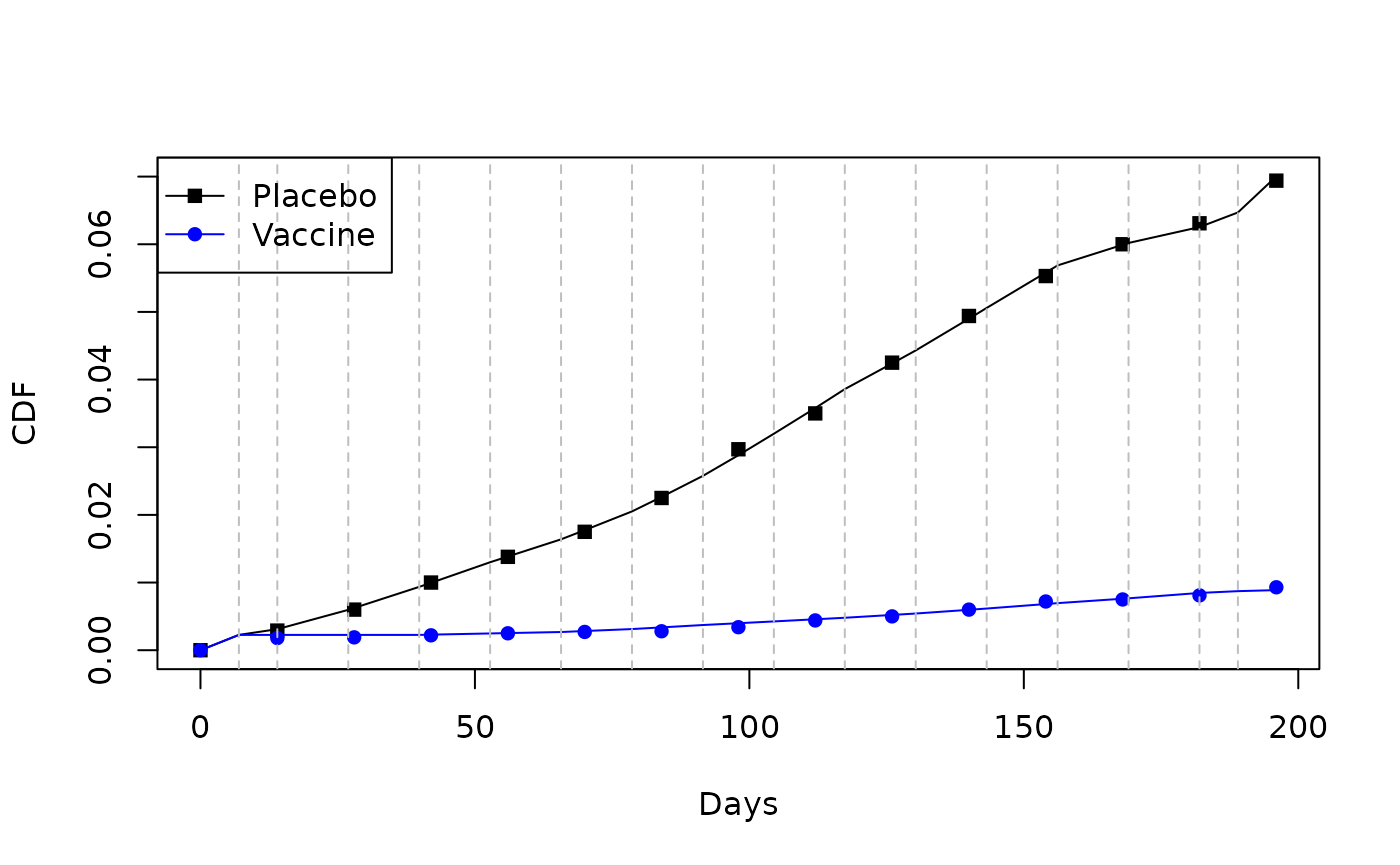
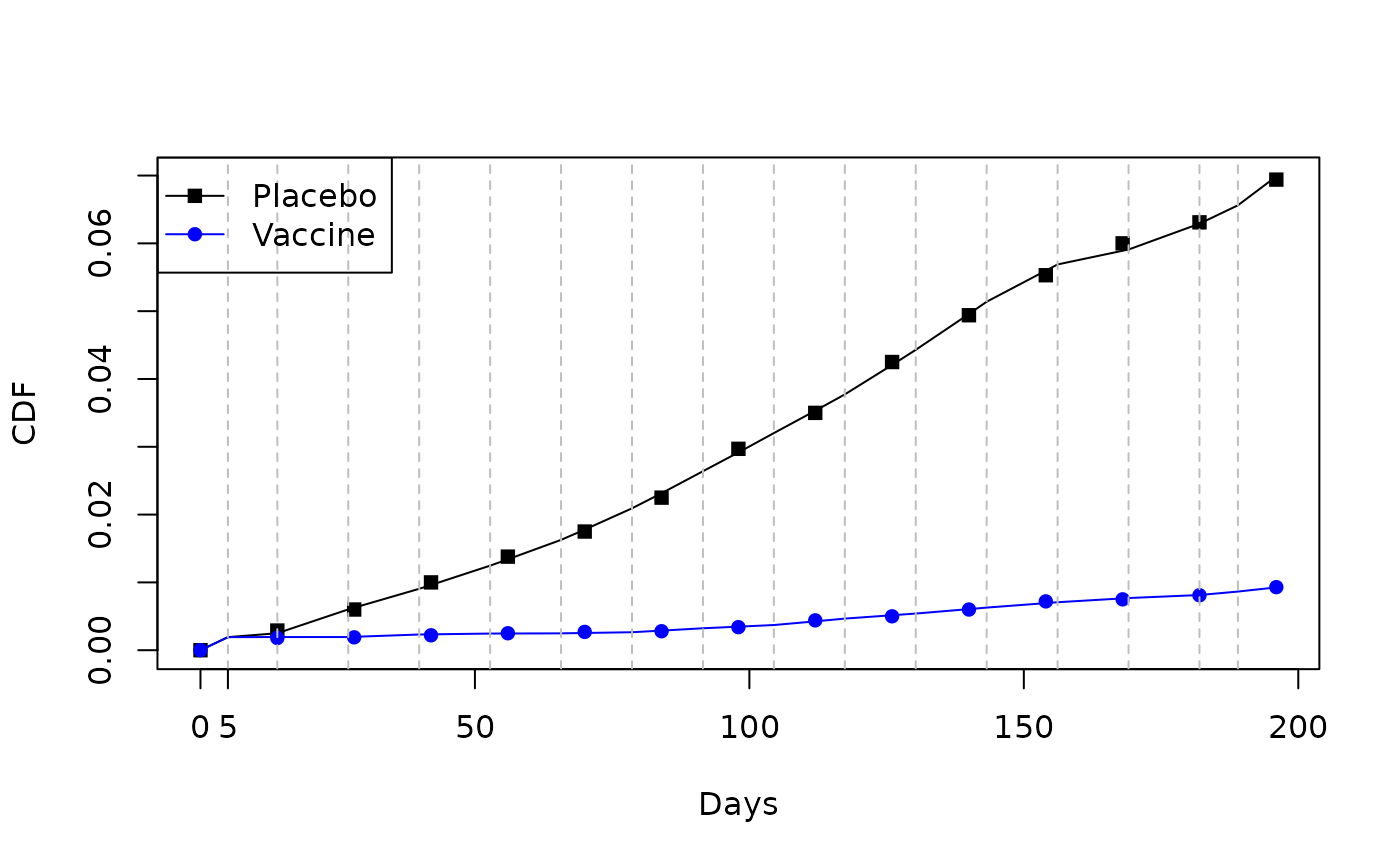
Deploying to gh-pages from @ swihart/mpw@29a186643586e4dbcfac5076dd0eb00bf7004102 🚀

diff --git a/articles/alpha.html b/articles/alpha.html
@@ -133,9 +133,9 @@ this example.</p>
 <h2 id="sixteen-knots">Sixteen knots<a class="anchor" aria-label="anchor" href="#sixteen-knots"></a>
 </h2>
 <div class="sourceCode" id="cb3"><pre class="downlit sourceCode r">
-<code class="sourceCode R"><span><span class="va">tvec.in</span> <span class="op">&lt;-</span> <span class="fu"><a href="https://rdrr.io/r/base/c.html" class="external-link">c</a></span><span class="op">(</span><span class="fl">7</span>, <span class="fu"><a href="https://rdrr.io/r/base/seq.html" class="external-link">seq</a></span><span class="op">(</span><span class="fl">14</span>,<span class="fu"><a href="https://rdrr.io/r/base/Extremes.html" class="external-link">max</a></span><span class="op">(</span><span class="va">time</span><span class="op">)</span><span class="op">-</span><span class="fl">14</span>,length.out<span class="op">=</span><span class="fl">14</span><span class="op">)</span>,<span class="fu"><a href="https://rdrr.io/r/base/Extremes.html" class="external-link">max</a></span><span class="op">(</span><span class="va">time</span><span class="op">)</span><span class="op">-</span><span class="fl">7</span><span class="op">)</span></span>
+<code class="sourceCode R"><span><span class="va">tvec.in</span> <span class="op">&lt;-</span> <span class="fu"><a href="https://rdrr.io/r/base/c.html" class="external-link">c</a></span><span class="op">(</span><span class="fl">5</span>, <span class="fu"><a href="https://rdrr.io/r/base/seq.html" class="external-link">seq</a></span><span class="op">(</span><span class="fl">14</span>,<span class="fu"><a href="https://rdrr.io/r/base/Extremes.html" class="external-link">max</a></span><span class="op">(</span><span class="va">time</span><span class="op">)</span><span class="op">-</span><span class="fl">14</span>,length.out<span class="op">=</span><span class="fl">14</span><span class="op">)</span>,<span class="fu"><a href="https://rdrr.io/r/base/Extremes.html" class="external-link">max</a></span><span class="op">(</span><span class="va">time</span><span class="op">)</span><span class="op">-</span><span class="fl">7</span><span class="op">)</span></span>
 <span><span class="va">tvec.in</span></span>
-<span><span class="co">#&gt;  [1]   7.00000  14.00000  26.92308  39.84615  52.76923  65.69231  78.61538</span></span>
+<span><span class="co">#&gt;  [1]   5.00000  14.00000  26.92308  39.84615  52.76923  65.69231  78.61538</span></span>
 <span><span class="co">#&gt;  [8]  91.53846 104.46154 117.38462 130.30769 143.23077 156.15385 169.07692</span></span>
 <span><span class="co">#&gt; [15] 182.00000 189.00000</span></span></code></pre></div>
 <div class="section level3">
@@ -160,17 +160,17 @@ this example.</p>
 <span>        control<span class="op">=</span><span class="fu"><a href="https://rdrr.io/r/base/list.html" class="external-link">list</a></span><span class="op">(</span>maxit<span class="op">=</span><span class="fl">1e8</span><span class="op">)</span><span class="op">)</span></span>
 <span><span class="fu"><a href="https://rdrr.io/r/base/print.html" class="external-link">print</a></span><span class="op">(</span><span class="va">plac_fit_F_alpha</span><span class="op">)</span></span>
 <span><span class="co">#&gt; $par</span></span>
-<span><span class="co">#&gt;  [1]  -0.15799938 -10.12040145  -0.21508909   0.74768428   0.21589618</span></span>
-<span><span class="co">#&gt;  [6]   0.03136962  -0.15528469   0.27388947   0.35359469   0.20431276</span></span>
-<span><span class="co">#&gt; [11]  -0.03848921  -0.39518830   0.11877485  -0.05979150  -0.91393283</span></span>
-<span><span class="co">#&gt; [16]  -0.27749430   0.54807831   1.84013113</span></span>
+<span><span class="co">#&gt;  [1]  -0.19809428 -10.00290490  -0.46528979   1.50975780  -0.41049204</span></span>
+<span><span class="co">#&gt;  [6]   0.13659323   0.10835991   0.26344501   0.18239172  -0.08269246</span></span>
+<span><span class="co">#&gt; [11]  -0.07470972   0.19303094   0.05622029  -0.55575772  -0.99909140</span></span>
+<span><span class="co">#&gt; [16]   0.53537197   0.38629201   0.88779139</span></span>
 <span><span class="co">#&gt; </span></span>
 <span><span class="co">#&gt; $value</span></span>
-<span><span class="co">#&gt; [1] 1.831274e-07</span></span>
+<span><span class="co">#&gt; [1] 2.366405e-07</span></span>
 <span><span class="co">#&gt; </span></span>
 <span><span class="co">#&gt; $counts</span></span>
 <span><span class="co">#&gt; function gradient </span></span>
-<span><span class="co">#&gt;     1239       NA </span></span>
+<span><span class="co">#&gt;      909       NA </span></span>
 <span><span class="co">#&gt; </span></span>
 <span><span class="co">#&gt; $convergence</span></span>
 <span><span class="co">#&gt; [1] 0</span></span>
@@ -206,17 +206,16 @@ same for both groups (i.e. <em>ramp-up time</em>).</p>
 <span>        control<span class="op">=</span><span class="fu"><a href="https://rdrr.io/r/base/list.html" class="external-link">list</a></span><span class="op">(</span>maxit<span class="op">=</span><span class="fl">1e8</span><span class="op">)</span><span class="op">)</span></span>
 <span><span class="fu"><a href="https://rdrr.io/r/base/print.html" class="external-link">print</a></span><span class="op">(</span><span class="va">vacc_fit_F_alpha</span><span class="op">)</span></span>
 <span><span class="co">#&gt; $par</span></span>
-<span><span class="co">#&gt;  [1] -8.538501e-01  1.412733e-07  3.512281e-08  4.482365e-01  7.181797e-02</span></span>
-<span><span class="co">#&gt;  [6]  6.486320e-01  4.269952e-01 -1.855307e-01  1.929620e-02  2.049996e-01</span></span>
-<span><span class="co">#&gt; [11]  2.439450e-01  8.880881e-02 -2.597165e-01  1.558628e-01 -7.205915e-01</span></span>
-<span><span class="co">#&gt; [16] -4.719281e-01</span></span>
+<span><span class="co">#&gt;  [1] -0.80982557 -0.01045652  0.62457154 -0.33277056 -0.21486434  0.42390586</span></span>
+<span><span class="co">#&gt;  [7]  1.31843225 -0.36908115  1.26785248 -0.74096065  0.23847180 -0.30173673</span></span>
+<span><span class="co">#&gt; [13] -0.44639190 -0.40910808  1.19813727  0.38037584</span></span>
 <span><span class="co">#&gt; </span></span>
 <span><span class="co">#&gt; $value</span></span>
-<span><span class="co">#&gt; [1] 1.054605e-07</span></span>
+<span><span class="co">#&gt; [1] 1.488447e-08</span></span>
 <span><span class="co">#&gt; </span></span>
 <span><span class="co">#&gt; $counts</span></span>
 <span><span class="co">#&gt; function gradient </span></span>
-<span><span class="co">#&gt;     3209       NA </span></span>
+<span><span class="co">#&gt;     2483       NA </span></span>
 <span><span class="co">#&gt; </span></span>
 <span><span class="co">#&gt; $convergence</span></span>
 <span><span class="co">#&gt; [1] 0</span></span>
@@ -265,9 +264,10 @@ denote knot placement.</p>
 <span>       col<span class="op">=</span><span class="fu"><a href="https://rdrr.io/r/base/c.html" class="external-link">c</a></span><span class="op">(</span><span class="st">"black"</span>,<span class="st">"blue"</span><span class="op">)</span>,</span>
 <span>       lty<span class="op">=</span><span class="fl">1</span>,</span>
 <span>       pch<span class="op">=</span><span class="fu"><a href="https://rdrr.io/r/base/c.html" class="external-link">c</a></span><span class="op">(</span><span class="fl">15</span>,<span class="fl">16</span><span class="op">)</span></span>
-<span><span class="op">)</span></span></code></pre></div>
+<span><span class="op">)</span></span>
+<span><span class="fu"><a href="https://rdrr.io/r/graphics/axis.html" class="external-link">axis</a></span><span class="op">(</span><span class="fl">1</span>, at<span class="op">=</span><span class="fu"><a href="https://rdrr.io/r/base/c.html" class="external-link">c</a></span><span class="op">(</span><span class="va">tvec.in</span><span class="op">[</span><span class="fl">1</span><span class="op">]</span><span class="op">)</span><span class="op">)</span></span></code></pre></div>
 <p><img src="alpha_files/figure-html/unnamed-chunk-4-1.png" width="700"></p>
-<p>Note from Days <code>0</code> to 7 the curves are the same.</p>
+<p>Note from Days 0 to 5 the curves are the same.</p>
 </div>
 <div class="section level3">
 <h3 id="plot-population-avg-hr-1">Plot population avg HR<a class="anchor" aria-label="anchor" href="#plot-population-avg-hr-1"></a>
